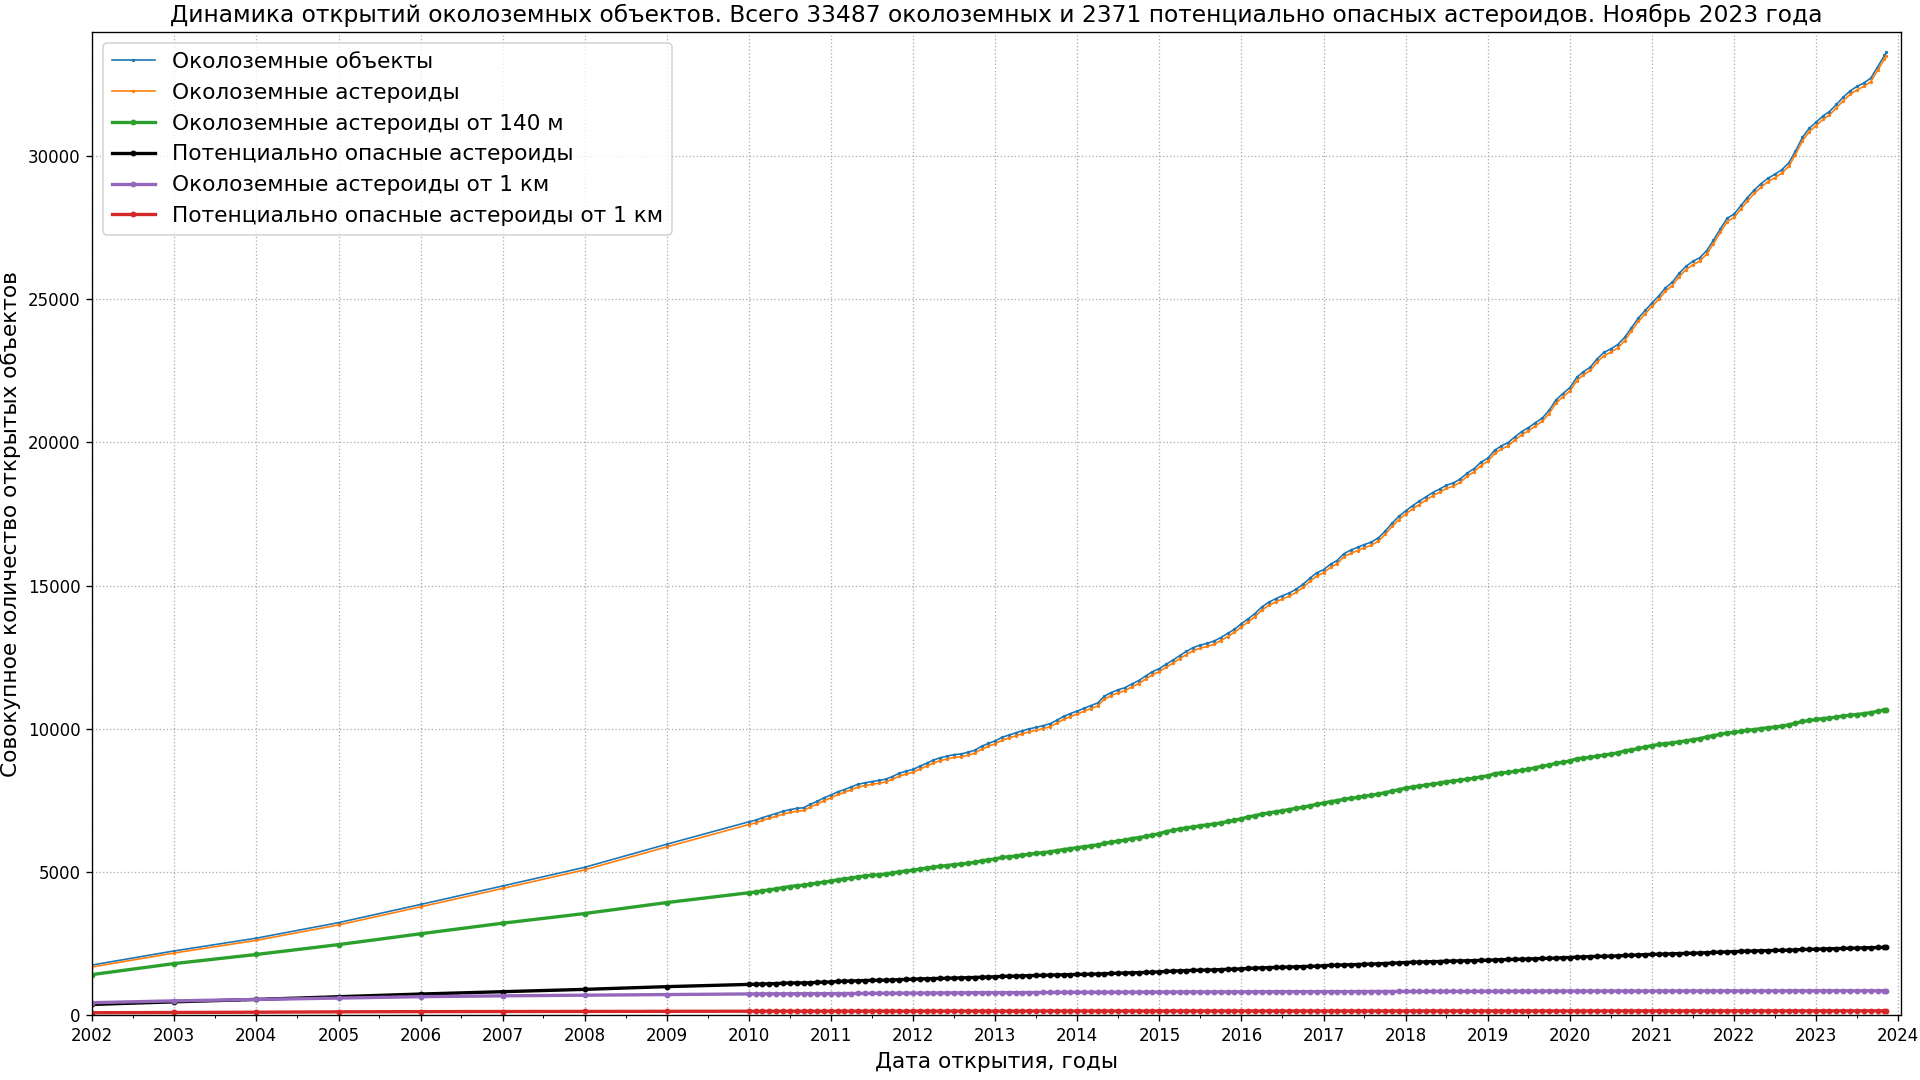
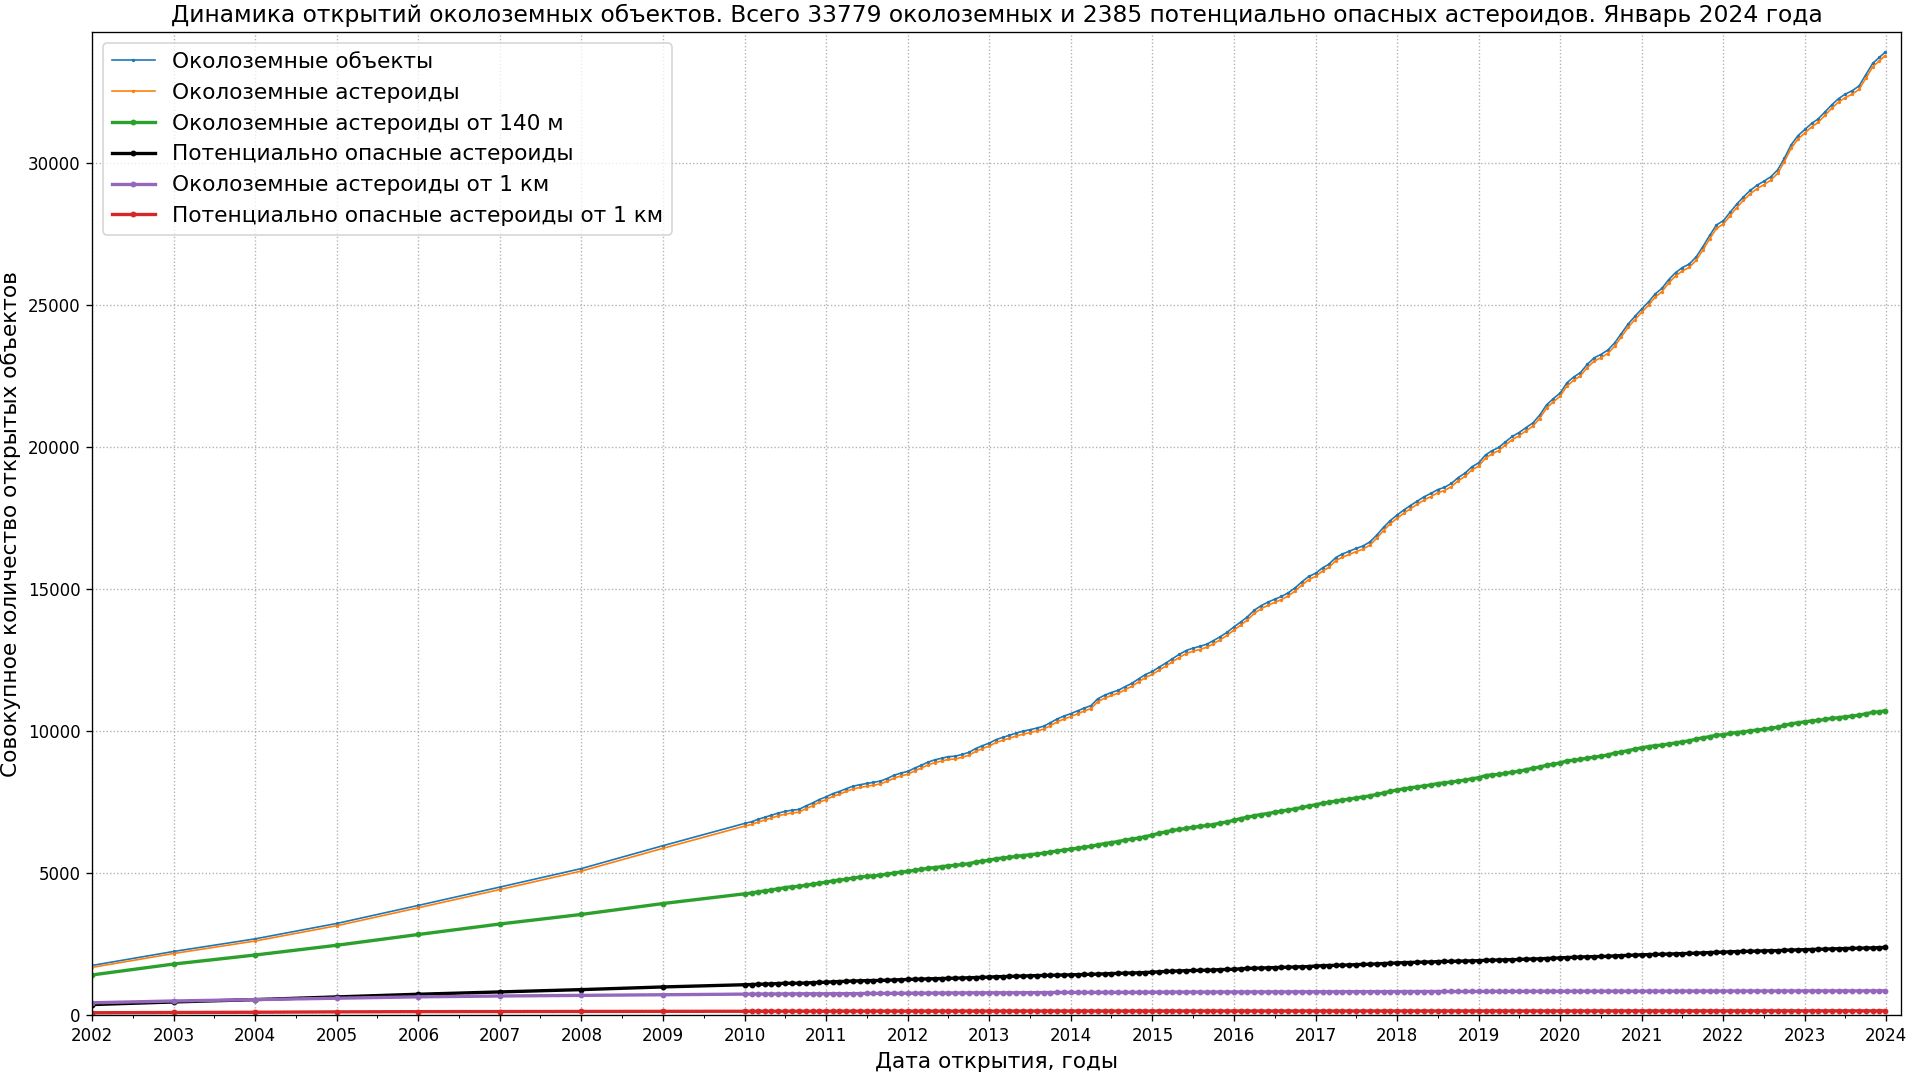
update plots & data

diff --git a/src/astrodata/stars/transients.py b/src/astrodata/stars/transients.py
@@ -8,37 +8,39 @@ import locale
 from bs4 import BeautifulSoup
 
 
-SNE_BEFORE_1996 = 1065 # CBAT SNe 5504+1065=6569 с 1996 по 2016 + с 1006 до 1996
-SNE_IAU_DCT = {1995: SNE_BEFORE_1996, 1996: 96, 1997: 163, 1998: 162,
-    1999: 206, 2000: 184, 2001: 307, 2002: 334, 2003: 339, 2004: 251,
-    2005: 367, 2006: 551, 2007: 573, 2008: 262, 2009: 390, 2010: 342,
-    2011: 298, 2012: 247, 2013: 233, 2014: 139, 2015: 60}
+SNE_BEFORE_1996 = 1065  # CBAT SNe 5504+1065=6569 с 1996 по 2016 + с 1006 до 1996
+SNE_IAU_DCT = {
+    1995: SNE_BEFORE_1996, 1996: 96, 1997: 163, 1998: 162, 1999: 206,
+    2000: 184, 2001: 307, 2002: 334, 2003: 339, 2004: 251, 2005: 367,
+    2006: 551, 2007: 573, 2008: 262, 2009: 390, 2010: 342, 2011: 298,
+    2012: 247, 2013: 233, 2014: 139, 2015: 60,
+}
 
-locale.setlocale(locale.LC_ALL, 'ru_RU')
+locale.setlocale(locale.LC_ALL, "ru_RU")
 today = datetime.now()
 MONTH, YEAR = today.strftime("%B"), today.year
 
 
-def get_soup_request(url, parser='lxml'):
+def get_soup_request(url, parser="lxml"):
     """Get url, return BeautifulSoup object."""
-    req = Request(url, headers={'User-Agent': 'Mozilla/5.0'})
+    req = Request(url, headers={"User-Agent": "Mozilla/5.0"})
     with request.urlopen(req) as html:
         return BeautifulSoup(html, parser)
 
 
-def mk_sne_iau_lst(start_year=1996, end_year=2023):
+def mk_sne_iau_lst(start_year=1996, end_year=2024):
     """Create list with sum of numbers before start_year as first item and
     other numbers for years before end_year."""
     sne_iau_lst = []
     _sum = 0
     for year, num in SNE_IAU_DCT.items():
-        if year < start_year-1:
+        if year < start_year - 1:
             _sum += num
-        elif year == start_year-1:
-            sne_iau_lst.append(_sum+num)
+        elif year == start_year - 1:
+            sne_iau_lst.append(_sum + num)
         else:
             sne_iau_lst.append(num)
-    sne_iau_lst += (end_year-list(SNE_IAU_DCT)[-1])*[0]
+    sne_iau_lst += (end_year - list(SNE_IAU_DCT)[-1]) * [0]
     return sne_iau_lst
 
 
@@ -52,21 +54,21 @@ def get_tns_stats():
     # public_transient = _get_stat_num(1)
     # classified = _get_stat_num(2)
     # spectra = _get_stat_num(3)
-    stat_cat_pub = soup.find('div', {"class": "stat-cat-public"})
-    stat_cat_pub = stat_cat_pub.findAll('div', {"class": "stat-row"})
-    stat_cat_all = soup.find('div', {"class": "stat-cat-all"})
-    stat_cat_all = stat_cat_all.findAll('div', {"class": "stat-row"})
+    stat_cat_pub = soup.find("div", {"class": "stat-cat-public"})
+    stat_cat_pub = stat_cat_pub.findAll("div", {"class": "stat-row"})
+    stat_cat_all = soup.find("div", {"class": "stat-cat-all"})
+    stat_cat_all = stat_cat_all.findAll("div", {"class": "stat-row"})
     return stat_cat_pub, stat_cat_all
 
 
 def _yrnum(elm):
     """Get data from div elements of Transient Name Server stats page."""
-    year = int(elm.find('div', {"class": "stat-row-left"}).text)
-    num = int(elm.find('div', {"class": "stat-row-right"}).text)
+    year = int(elm.find("div", {"class": "stat-row-left"}).text)
+    num = int(elm.find("div", {"class": "stat-row-right"}).text)
     return year, num
 
 
-def get_tns_year_stats(year_stats):
+def get_tns_year_stats(year_stats, endyear=2024):
     """Get Transient Name Server year stats: numbers of transients discovered
     for each year.
     """
@@ -83,10 +85,10 @@ def get_tns_year_stats(year_stats):
         yr_ints.append(year)
         stats_dct[year] = num
         nums.append(num)
-        if year == 2023:
+        if year == endyear:
             realdate = today
         else:
-            realdate = datetime(year+1, 1, 1)
+            realdate = datetime(year + 1, 1, 1)
         realdates.append(realdate)
         if year in range(1976, 1996):
             _sum += num
@@ -101,11 +103,12 @@ def get_tns_year_stats(year_stats):
 def add_iau_sne(sne_final_dct):
     """Sum SNe numbers in CBAT list and transients from TNS server."""
     for year, dat in SNE_IAU_DCT.items():
-        if datetime(year+1, 1, 1) in sne_final_dct:
-            sne_final_dct[datetime(year+1, 1, 1)] = \
-                sne_final_dct[datetime(year+1, 1, 1)] + dat
+        if datetime(year + 1, 1, 1) in sne_final_dct:
+            sne_final_dct[datetime(year + 1, 1, 1)] = (
+                sne_final_dct[datetime(year + 1, 1, 1)] + dat
+            )
         else:
-            sne_final_dct[datetime(year+1, 1, 1)] = dat
+            sne_final_dct[datetime(year + 1, 1, 1)] = dat
     return sne_final_dct
 
 
@@ -131,14 +134,14 @@ def _get_nums_before(stats_dct, start_year=1996):
     return summ
 
 
-def mk_tns_data(stats_pub_dct, stats_all_dct, start_year=1996, end_year=2023):
+def mk_tns_data(stats_pub_dct, stats_all_dct, start_year=1996, end_year=2024):
     """Make final data sets of TNS year stats for plotting."""
     nums_diff_dct = {}
     data_to_plot = {}
     _sum = _get_nums_before(stats_pub_dct, start_year=start_year)
-    data_to_plot[start_year-1] = _sum
-    nums_diff_dct[start_year-1] = 0
-    for year in range(start_year, end_year+1):
+    data_to_plot[start_year - 1] = _sum
+    nums_diff_dct[start_year - 1] = 0
+    for year in range(start_year, end_year + 1):
         if year in stats_pub_dct:
             data_to_plot[year] = stats_pub_dct[year]
             nums_diff_dct[year] = stats_all_dct[year] - stats_pub_dct[year]
@@ -151,24 +154,26 @@ def mk_tns_data(stats_pub_dct, stats_all_dct, start_year=1996, end_year=2023):
 def mk_urls_lst():
     """Make URLs list of Latest Supernovae Archives year stats pages."""
     snyears_urls = []
+
     def _yrurlstr(pre, pos):
         return f"https://rochesterastronomy.org/{pre}snstats{pos}.html"
-    snyears_urls.append((1995, _yrurlstr('snimages/', 'other')))
+
+    snyears_urls.append((1995, _yrurlstr("snimages/", "other")))
     for year in range(1996, 1999):
-        snyears_urls.append((year, _yrurlstr('snimages/', year)))
-    snyears_urls.append((1999, _yrurlstr('snimages/sn1999/', '')))
-    for year in range(2000, YEAR+1):
-        snyears_urls.append((year, _yrurlstr(f'sn{year}/', '')))
-    snyears_urls.append(('all', _yrurlstr('snimages/', 'all')))
+        snyears_urls.append((year, _yrurlstr("snimages/", year)))
+    snyears_urls.append((1999, _yrurlstr("snimages/sn1999/", "")))
+    for year in range(2000, YEAR + 1):
+        snyears_urls.append((year, _yrurlstr(f"sn{year}/", "")))
+    snyears_urls.append(("all", _yrurlstr("snimages/", "all")))
     return snyears_urls
 
 
 def get_sn_stats(soup, end=23):
     """Get data from pre element and last modified date of
     Latest Supernovae Archives year stats page."""
-    lastmod_txt = soup.findAll('p')[1].text.splitlines()[-1][23:]
+    lastmod_txt = soup.findAll("p")[1].text.splitlines()[-1][23:]
     # dt = datetime.strptime(lastmod_txt[:10], '%Y/%m/%d')
-    pre = soup.find('pre').text
+    pre = soup.find("pre").text
     return pre.splitlines()[1:end], lastmod_txt[:-5]
 
 
@@ -176,5 +181,9 @@ def get_sn_count(txt):
     """Get supernova total count from Latest Supernovae Archives stats pages.
     TODO get number of SNe in galaxies and other statistics.
     """
-    return int(txt[0].split()[4]), int(txt[1].split()[0]), \
-           int(txt[5].split()[0]), int(txt[6].split()[0])
+    return (
+        int(txt[0].split()[4]),
+        int(txt[1].split()[0]),
+        int(txt[5].split()[0]),
+        int(txt[6].split()[0]),
+    )

diff --git a/src/astrodata/solarsystem/plot_close_approaches.py b/src/astrodata/solarsystem/plot_close_approaches.py
@@ -47,11 +47,12 @@ NAMSIZE = {
     "2019 NN3": "35–77",
     "2019 OD": "60–130",
     "2019 OK": "57–130",
-    "2020 LD": "140",
+    "2020 LD": "89–200",  # 140
     "2021 SG": "42–94",
-    "2023 DZ2": "70",
+    "2023 DZ2": "70–90",
+    # "2020 VZ6": "25–57",
 }
-for i, nam in enumerate(names[:9]):
+for i, nam in enumerate(names[:12]):
     if nam in NAMSIZE.keys():
         t = plt.annotate(
             f"{nam} ({NAMSIZE[nam]} м)",
@@ -84,7 +85,7 @@ t = plt.annotate(
 ax.plot(LIMITS, [35.786, 35.786], "--m", lw=3, zorder=5)
 t = plt.annotate(
     "Самый далекий пилотируемый полет ",
-    (datetime(2022, 4, 30), 3.5 + 400.171),
+    (LIMITS[1]-timedelta(days=584), 3.5 + 400.171),
     fontsize=14, zorder=6,
 )
 t.set_bbox(dict(facecolor="white", alpha=0.9, edgecolor="white", linewidth=0))
@@ -100,7 +101,7 @@ plt.xlabel("Дата", fontsize=14)
 plt.title(
     "Сближения "
     + str(COUNT)
-    + f" астероидов ($ H<30^m$) с Землей с {START.year} по 2023 годы",
+    + f" астероидов ($ H<30^m$) с Землей с {START.year} по 2024 годы",
     fontsize=14,
 )
 plt.savefig("../../../plots/solarsystem/asteroid-close-approaches-ru.png", dpi=120)

diff --git a/src/astrodata/stars/plot_sne_transients_stats.py b/src/astrodata/stars/plot_sne_transients_stats.py
@@ -298,7 +298,9 @@ title = f"Статистика открытий сверхновых по год
 plt.title(title + f" {MONTH} {YEAR} года", fontsize=16)
 plt.legend(fontsize=14, loc="upper left")
 ax.yaxis.set_minor_locator(MultipleLocator(500))
-ax.bar_label(ax.containers[-1])
+# ax.bar_label(ax.containers[-1])
+for x, y in enumerate(df.sum(axis=1)):
+    ax.annotate(int(y), (x, y + 100), ha="center")
 
 plt.savefig(tmp_pth, dpi=DPI)
 if FILE_EXT == "svg":
@@ -320,7 +322,7 @@ plt.plot(years_dt, all_sne, "ok-", label="David Bishop, Latest Supernovae Archiv
 plt.plot(total_dct.keys(), total_lst, "or-",
          label="Transient Name Server, public + CBAT SNe before 2016")
 plt.xlim(datetime(1995, 10, 1), today + timedelta(weeks=31.9))
-plt.ylim(1000, 150000)
+plt.ylim(1000, 160000)
 plt.yscale("log")
 plt.legend(fontsize=14)
 plt.title(
